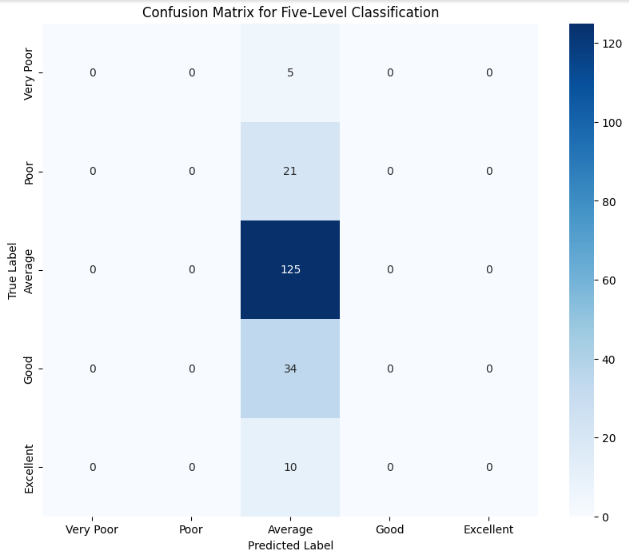
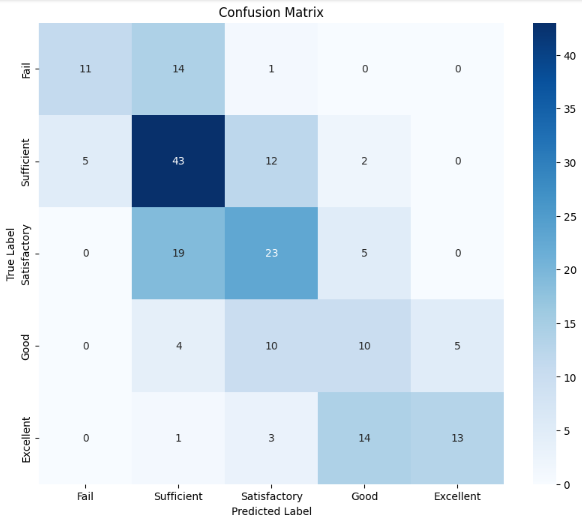
fixed 5levelClassification for Random Forest

diff --git a/5-Level-Classification/C/Random Forest/randomForest5ClassifierC.py b/5-Level-Classification/C/Random Forest/randomForest5ClassifierC.py
@@ -1,6 +1,6 @@
 # Import necessary libraries
 from sklearn.ensemble import RandomForestClassifier
-from sklearn.metrics import accuracy_score, classification_report, confusion_matrix
+from sklearn.metrics import accuracy_score, precision_score, recall_score, f1_score, classification_report, confusion_matrix
 from sklearn.model_selection import train_test_split
 import pandas as pd
 import numpy as np
@@ -26,30 +26,30 @@ encoded_df = pd.DataFrame(encoded_features, columns=encoder.get_feature_names_ou
 data = data.drop(columns=categorical_columns).reset_index(drop=True)
 data = pd.concat([data, encoded_df], axis=1)
 
-# Remove 'G1' and 'G2' from features
-if 'G1' in data.columns:
-    data = data.drop(columns=['G1'])
+if 'G2' in data.columns:
+    data = data.drop(columns=['G2'])
 if 'G2' in data.columns:
     data = data.drop(columns=['G2'])
 
-# Define five-level classification target
-def categorize_grade(grade):
-    if grade < 5:
-        return 0  # Very Poor
-    elif grade < 10:
-        return 1  # Poor
-    elif grade < 15:
-        return 2  # Average
-    elif grade < 18:
+# Define five levels for G3
+def categorize_g3(grade):
+    if grade <= 9:
+        return 0  # Fail
+    elif grade <= 11:
+        return 1  # Sufficient
+    elif grade <= 13:
+        return 2  # Satisfactory
+    elif grade <= 15:
         return 3  # Good
     else:
         return 4  # Excellent
 
-data['Grade_Level'] = data['G3'].apply(categorize_grade)
+# Apply the categorization
+data['G3_level'] = data['G3'].apply(categorize_g3)
 
-# Define features (X) and target (y)
-X = data.drop(columns=['G3', 'Grade_Level'])
-y = data['Grade_Level']
+# Define features (X) and multi-class target (y)
+X = data.drop(columns=['G3', 'G3_level'])
+y = data['G3_level']
 
 # Split the data into training and testing sets
 X_train, X_test, y_train, y_test = train_test_split(X, y, test_size=0.3, random_state=42)
@@ -71,13 +71,19 @@ y_pred = clf.predict(X_test)
 
 # Evaluate the model
 accuracy = accuracy_score(y_test, y_pred)
+precision = precision_score(y_test, y_pred, average='weighted')
+recall = recall_score(y_test, y_pred, average='weighted')
+f1 = f1_score(y_test, y_pred, average='weighted')
 
 # Print metrics
-print(f"Accuracy: {accuracy:.2f}\n")
+print(f"Accuracy: {accuracy:.2f}")
+print(f"Precision (weighted): {precision:.2f}")
+print(f"Recall (weighted): {recall:.2f}")
+print(f"F1 Score (weighted): {f1:.2f}\n")
 
 # Detailed classification report
 print("Classification Report:")
-print(classification_report(y_test, y_pred, target_names=["Very Poor", "Poor", "Average", "Good", "Excellent"]))
+print(classification_report(y_test, y_pred, target_names=["Fail", "Sufficient", "Satisfactory", "Good", "Excellent"]))
 
 # Confusion Matrix
 conf_matrix = confusion_matrix(y_test, y_pred)
@@ -89,10 +95,10 @@ sns.heatmap(
     annot=True,
     fmt="d",
     cmap="Blues",
-    xticklabels=["Very Poor", "Poor", "Average", "Good", "Excellent"],
-    yticklabels=["Very Poor", "Poor", "Average", "Good", "Excellent"]
+    xticklabels=["Fail", "Sufficient", "Satisfactory", "Good", "Excellent"],
+    yticklabels=["Fail", "Sufficient", "Satisfactory", "Good", "Excellent"]
 )
-plt.title("Confusion Matrix for Five-Level Classification")
+plt.title("Confusion Matrix")
 plt.xlabel("Predicted Label")
 plt.ylabel("True Label")
 plt.show()

diff --git a/5-Level-Classification/B/Random Forest/randomForest5ClassifierB.py b/5-Level-Classification/B/Random Forest/randomForest5ClassifierB.py
@@ -26,28 +26,28 @@ encoded_df = pd.DataFrame(encoded_features, columns=encoder.get_feature_names_ou
 data = data.drop(columns=categorical_columns).reset_index(drop=True)
 data = pd.concat([data, encoded_df], axis=1)
 
-# Remove 'G2' from features
 if 'G2' in data.columns:
     data = data.drop(columns=['G2'])
-
-# Define 5-level classification target
+    
+# Define five levels for G3
 def categorize_g3(grade):
-    if grade < 5:
-        return 0  # Very Poor
-    elif grade < 10:
-        return 1  # Poor
-    elif grade < 15:
-        return 2  # Average
-    elif grade < 18:
+    if grade <= 9:
+        return 0  # Fail
+    elif grade <= 11:
+        return 1  # Sufficient
+    elif grade <= 13:
+        return 2  # Satisfactory
+    elif grade <= 15:
         return 3  # Good
     else:
         return 4  # Excellent
 
-data['G3_Category'] = data['G3'].apply(categorize_g3)
+# Apply the categorization
+data['G3_level'] = data['G3'].apply(categorize_g3)
 
-# Define features (X) and target (y)
-X = data.drop(columns=['G3', 'G3_Category'])
-y = data['G3_Category']
+# Define features (X) and multi-class target (y)
+X = data.drop(columns=['G3', 'G3_level'])
+y = data['G3_level']
 
 # Split the data into training and testing sets
 X_train, X_test, y_train, y_test = train_test_split(X, y, test_size=0.3, random_state=42)
@@ -75,13 +75,13 @@ f1 = f1_score(y_test, y_pred, average='weighted')
 
 # Print metrics
 print(f"Accuracy: {accuracy:.2f}")
-print(f"Precision: {precision:.2f}")
-print(f"Recall: {recall:.2f}")
-print(f"F1 Score: {f1:.2f}\n")
+print(f"Precision (weighted): {precision:.2f}")
+print(f"Recall (weighted): {recall:.2f}")
+print(f"F1 Score (weighted): {f1:.2f}\n")
 
 # Detailed classification report
 print("Classification Report:")
-print(classification_report(y_test, y_pred, target_names=["Very Poor", "Poor", "Average", "Good", "Excellent"]))
+print(classification_report(y_test, y_pred, target_names=["Fail", "Sufficient", "Satisfactory", "Good", "Excellent"]))
 
 # Confusion Matrix
 conf_matrix = confusion_matrix(y_test, y_pred)
@@ -93,10 +93,10 @@ sns.heatmap(
     annot=True,
     fmt="d",
     cmap="Blues",
-    xticklabels=["Very Poor", "Poor", "Average", "Good", "Excellent"],
-    yticklabels=["Very Poor", "Poor", "Average", "Good", "Excellent"]
+    xticklabels=["Fail", "Sufficient", "Satisfactory", "Good", "Excellent"],
+    yticklabels=["Fail", "Sufficient", "Satisfactory", "Good", "Excellent"]
 )
-plt.title("Confusion Matrix for 5-Level Classification")
+plt.title("Confusion Matrix")
 plt.xlabel("Predicted Label")
 plt.ylabel("True Label")
 plt.show()

diff --git a/5-Level-Classification/A/Random Forest/randomForest5ClassifierA.py b/5-Level-Classification/A/Random Forest/randomForest5ClassifierA.py
@@ -28,13 +28,13 @@ data = pd.concat([data, encoded_df], axis=1)
 
 # Define five levels for G3
 def categorize_g3(grade):
-    if grade <= 4:
-        return 0  # Very Poor
-    elif grade <= 9:
-        return 1  # Poor
-    elif grade <= 14:
-        return 2  # Average
-    elif grade <= 17:
+    if grade <= 9:
+        return 0  # Fail
+    elif grade <= 11:
+        return 1  # Sufficient
+    elif grade <= 13:
+        return 2  # Satisfactory
+    elif grade <= 15:
         return 3  # Good
     else:
         return 4  # Excellent
@@ -78,7 +78,7 @@ print(f"F1 Score (weighted): {f1:.2f}\n")
 
 # Detailed classification report
 print("Classification Report:")
-print(classification_report(y_test, y_pred, target_names=["Very Poor", "Poor", "Average", "Good", "Excellent"]))
+print(classification_report(y_test, y_pred, target_names=["Fail", "Sufficient", "Satisfactory", "Good", "Excellent"]))
 
 # Confusion Matrix
 conf_matrix = confusion_matrix(y_test, y_pred)
@@ -90,8 +90,8 @@ sns.heatmap(
     annot=True,
     fmt="d",
     cmap="Blues",
-    xticklabels=["Very Poor", "Poor", "Average", "Good", "Excellent"],
-    yticklabels=["Very Poor", "Poor", "Average", "Good", "Excellent"]
+    xticklabels=["Fail", "Sufficient", "Satisfactory", "Good", "Excellent"],
+    yticklabels=["Fail", "Sufficient", "Satisfactory", "Good", "Excellent"]
 )
 plt.title("Confusion Matrix")
 plt.xlabel("Predicted Label")
